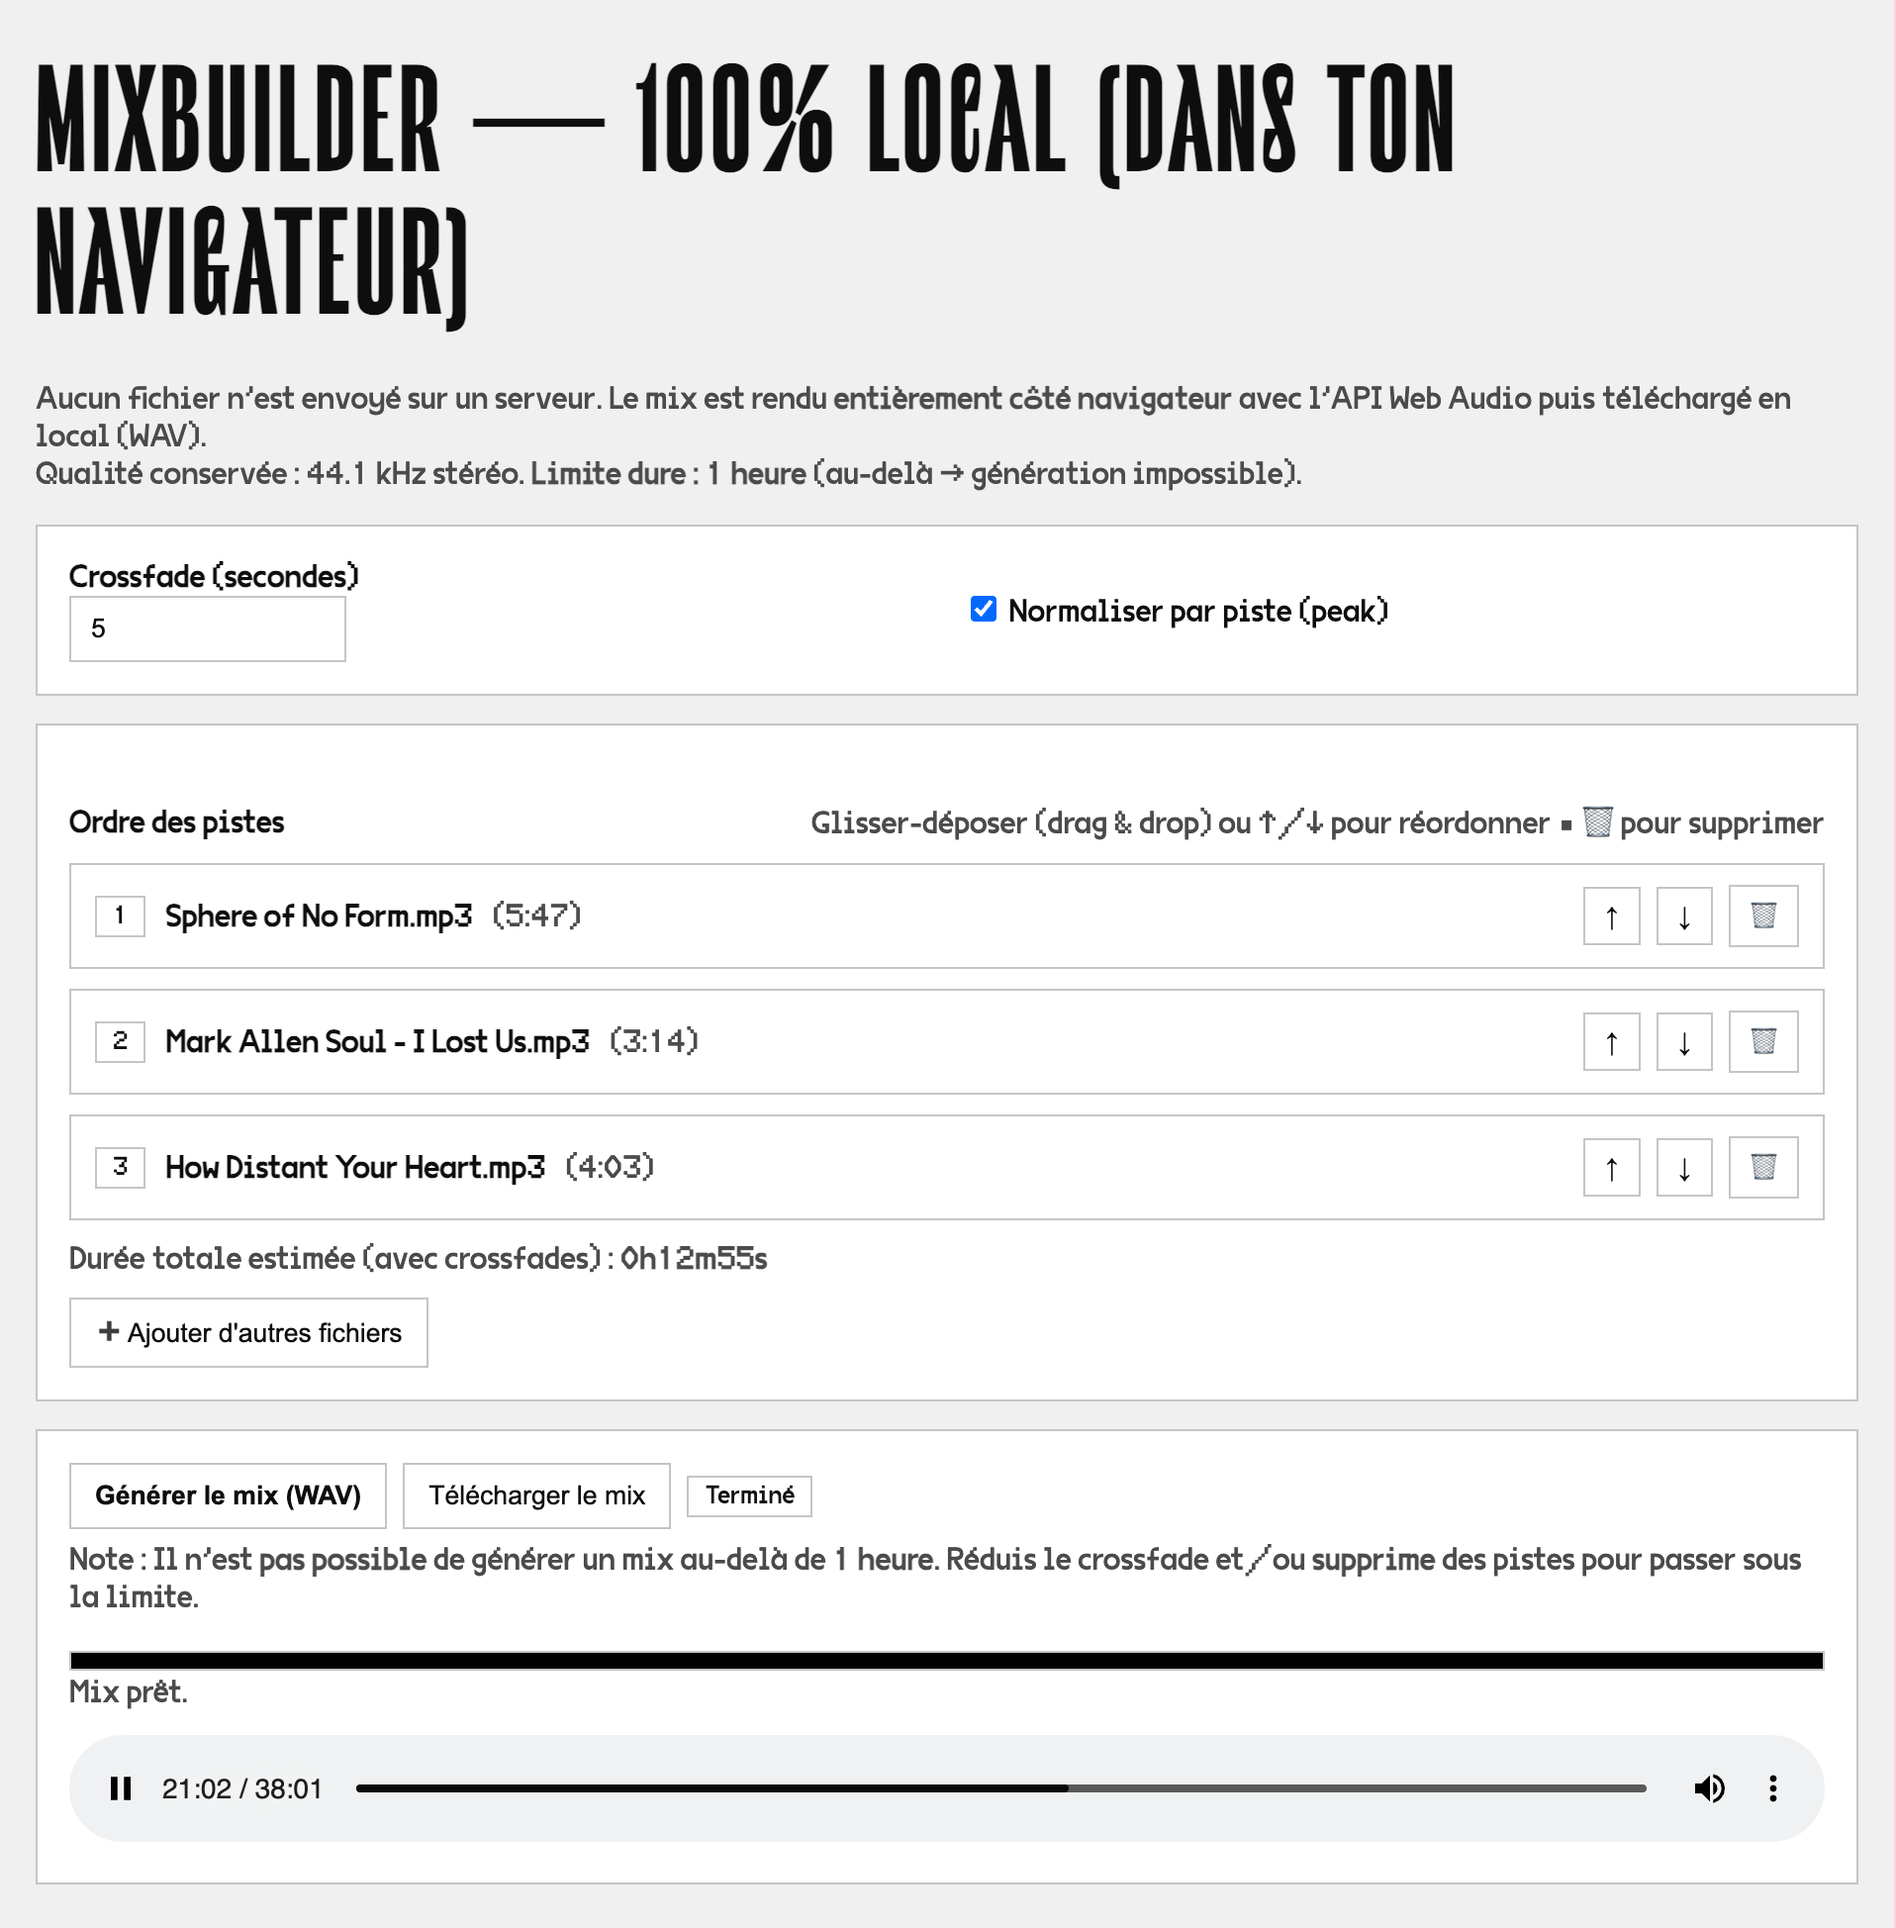
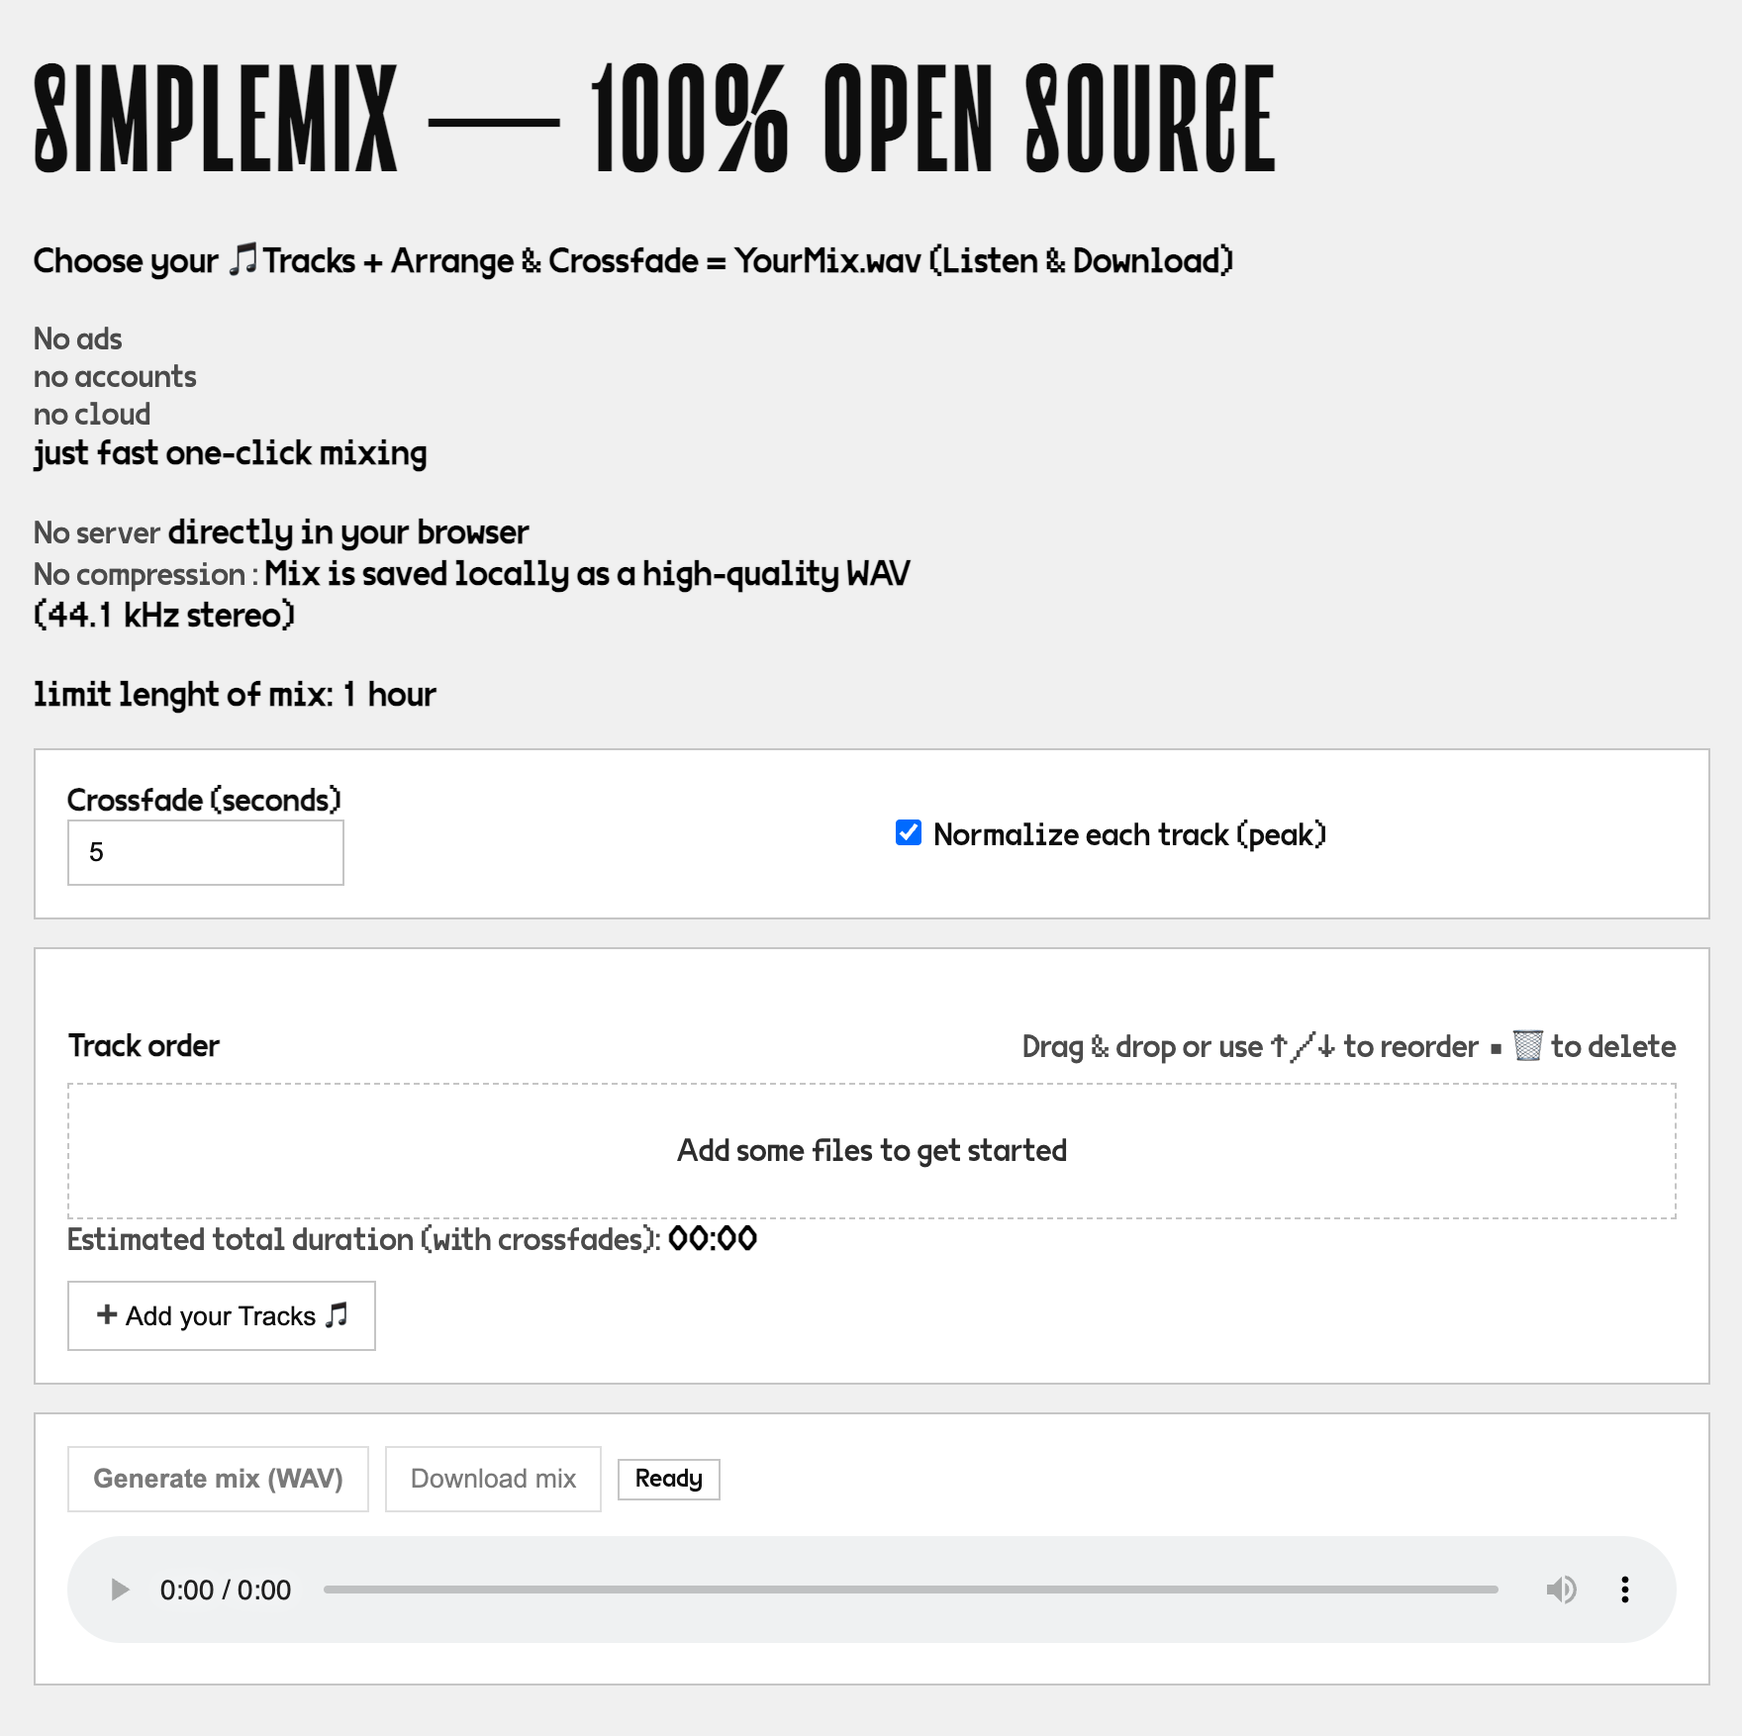
readme better preview

diff --git a/README.md b/README.md
@@ -37,7 +37,7 @@ Example included in this repo:
 In `index.html`:
 ```html
 <div id="previewWrap" style="margin-top:12px; text-align:center">
-  <img id="cover" src="preview.jpeg" alt="Mix cover"
+  <img id="cover" src="preview.png" alt="Mix cover"
        style="max-width:200px; display:block; margin:0 auto 12px;">
   <audio id="preview" controls style="width:100%"></audio>
 </div>
